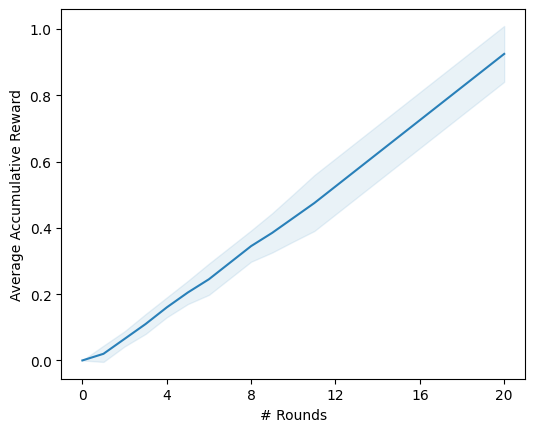
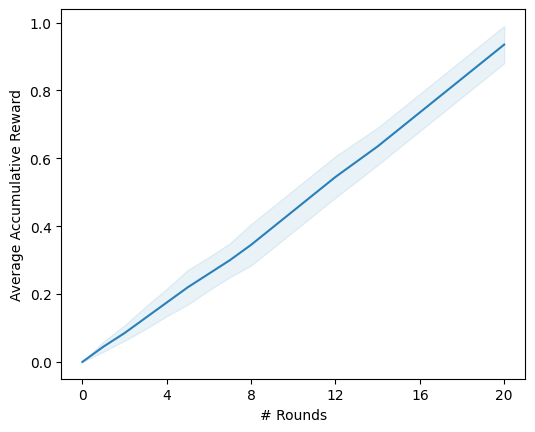
Add new variables to DAG

diff --git a/agents/causal_agents.py b/agents/causal_agents.py
@@ -30,7 +30,7 @@ class CausalAgent(Agent):
 		Elige la mejor combinación acciones que puede tomar
 		de acuerdo con la mayor probilidad de obtener cierto
 		valor en el target. Por ahora sólo funciona para una variable
-		targer y múltiples variables intervenidas.
+		target y múltiples variables intervenidas.
 		"""
 		target_name = target["variable"]
 		target_value = int(target["value"])
@@ -40,6 +40,7 @@ class CausalAgent(Agent):
 		idx = np.random.choice(len(cartesian_prod))
 		best_actions = cartesian_prod[idx]
 		max_prob = -float("inf")
+
 		for vars_tuples in itertools.product(*val_inter_vars):
 			query_dict = dict()
 			for i in range(len(intervened_variables)):
@@ -66,6 +67,7 @@ class CausalAgent(Agent):
 		cartesian_prod = list(itertools.product(*val_inter_vars))
 		best_actions = None
 		max_prob = threshold
+		print(val_inter_vars)
 		for vars_tuples in itertools.product(*val_inter_vars):
 			query_dict = dict()
 			for i in range(len(intervened_variables)):
@@ -200,7 +202,7 @@ class HalfBlindAgent(CausalAgent):
 		"""
 		adj_list = self.model.get_nodes_and_predecessors()
 		
-		for node in adj_list:
+		for node in observation_dict:
 			node_object = dict()
 			parents_to_string = ""
 			node_value = observation_dict[node]
@@ -211,6 +213,27 @@ class HalfBlindAgent(CausalAgent):
 
 		# logging.info("ALPHAS after counting update")
 		# logging.info(json.dumps(self.alpha_params, indent=2))
+	def make_decision_using_obs(self, target, intervened_variables, obs):
+		target_name = target["variable"]
+		target_value = int(target["value"])
+		val_inter_vars = [self.model.get_variable_values(i)\
+							for i in intervened_variables]
+		cartesian_prod = list(itertools.product(*val_inter_vars))
+		idx = np.random.choice(len(cartesian_prod))
+		best_actions = cartesian_prod[idx]
+		max_prob = -float("inf")
+
+		for vars_tuples in itertools.product(*val_inter_vars):
+			query_dict = dict()
+			for i in range(len(intervened_variables)):
+				query_dict["X"] = obs["X"]
+				query_dict["Y"] = obs["Y"]
+				query_dict[intervened_variables[i]] = vars_tuples[i]
+			prob_table = self.do_calculus(target_name, query_dict)
+			logging.info(prob_table)
+			prob = prob_table[target_value]
+			if prob > max_prob: max_prob = prob; best_actions = vars_tuples
+		return best_actions
 	def training(self, rounds, target_value):
 		intervention_vars = self.model.get_intervention_variables()
 		target = {
@@ -218,7 +241,10 @@ class HalfBlindAgent(CausalAgent):
 			"value" : target_value
 			}
 		for i in range(rounds):
-			best_actions = self.make_decision(target, intervention_vars)
+			self.update_beliefs({"X" : 0, "Y" : 1})
+			self.update_cpts_causal_model()
+			best_actions = self.make_decision(
+				target, intervention_vars)
 			# logging.info("Best actions {} {}".format(intervention_vars, best_actions))
 			nature_response = self.nature.action_simulator(intervention_vars, \
 								best_actions)

diff --git a/experiments.py b/experiments.py
@@ -40,9 +40,9 @@ def main():
     parser = argparse.ArgumentParser(description='Run experiments causal agents.')
     parser.add_argument("--config-file", type=str,
                         default="configs/model_parameters.json", help="Path to the configuration files.")
-    parser.add_argument("--experiments", type=int, default=10,
+    parser.add_argument("--experiments", type=int, default=1,
                         help="# of experiments.")
-    parser.add_argument("--rounds", type=int, default=20,
+    parser.add_argument("--rounds", type=int, default=5,
                         help="# of rounds per experiment.")
     parser.add_argument("--target-value", type=int, default=1,
                         help="Desired value for target variable.")

diff --git a/true_causal_model.py b/true_causal_model.py
@@ -31,8 +31,11 @@ class TrueCausalModel:
 		response = dict()
 		elements = None
 		probabilities = None
+		print(self.model.get_nature_variables())
 		for nat_var in self.model.get_nature_variables():
 			probabilities = self.model.get_nature_var_prob(nat_var)
+			print(nat_var)
+			print(probabilities)
 			elements = [i for i in range(len(probabilities))]
 			res = np.random.choice(elements, p=probabilities)
 			response[nat_var] = res
